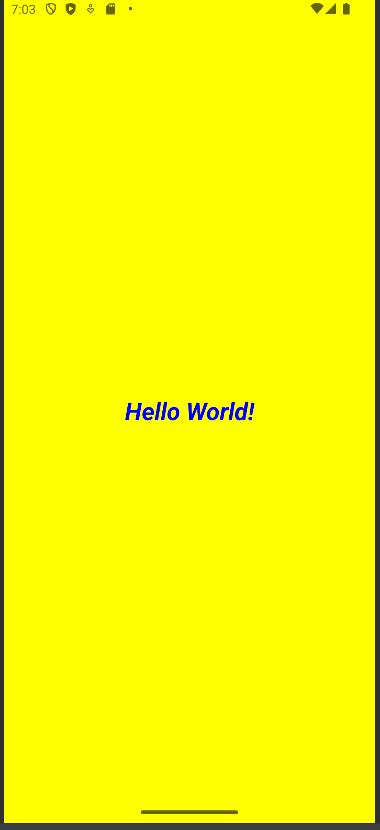
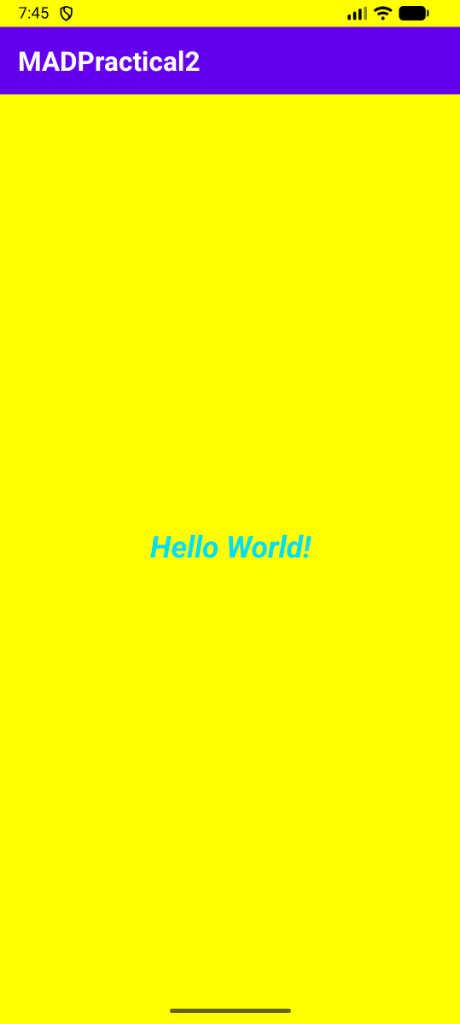
docs: replace app output screenshot and remove logcat screenshot

Changed region(s): [[0.0, 0.0, 1.0, 1.0], [0.3184, 0.4819, 0.6947, 0.5422]]

diff --git a/README.md b/README.md
@@ -35,9 +35,7 @@ Each callback invokes a unified helper function `display(msg)` which logs the ev
 
 ## 📸 Screenshots & Output
 
-| App UI Output | Logcat Execution Logs |
-| :---: | :---: |
-| ![App Output](practical2_output.png) | ![Logcat Output](practical2_logcat.png) |
+![App Output](practical2_output.png)
 
 ---
 
